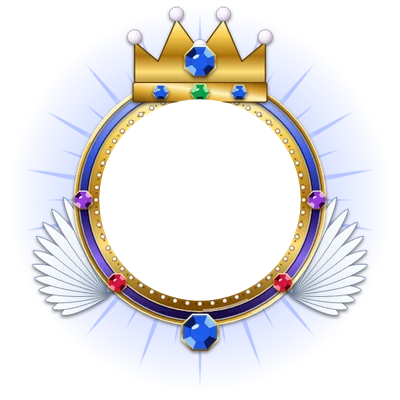
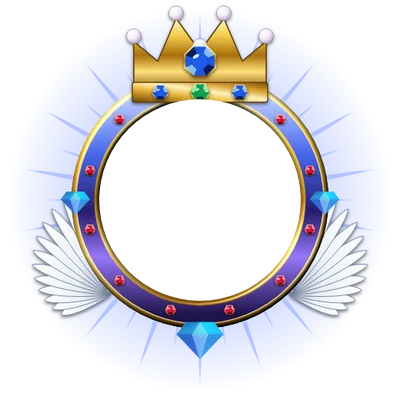
Frames v3: chunky enamel rings with 3D bevel lighting, 3D gems, redesigned royal/VIP/reward frames
Claude-Session: https://claude.ai/code/session_01UNbGwKBERR3Z9c2NWXRS2D

diff --git a/docs/index.html b/docs/index.html
@@ -8,12 +8,12 @@
 <link rel="icon" href="logo.svg">
 <link rel="preconnect" href="https://fonts.googleapis.com">
 <link rel="stylesheet" href="https://fonts.googleapis.com/css2?family=Cairo:wght@400;600;700;800;900&display=swap">
-<link rel="stylesheet" href="style.css?v=35">
-<link rel="stylesheet" href="v2.css?v=35">
-<link rel="stylesheet" href="deco.css?v=35">
-<link rel="stylesheet" href="tpk.css?v=35">
-<link rel="stylesheet" href="ucard.css?v=35">
-<link rel="stylesheet" href="ranks.css?v=35">
+<link rel="stylesheet" href="style.css?v=36">
+<link rel="stylesheet" href="v2.css?v=36">
+<link rel="stylesheet" href="deco.css?v=36">
+<link rel="stylesheet" href="tpk.css?v=36">
+<link rel="stylesheet" href="ucard.css?v=36">
+<link rel="stylesheet" href="ranks.css?v=36">
 </head>
 <body>
 
@@ -190,29 +190,29 @@ setTimeout(function(){var l=document.getElementById('loading');if(l&&!l.hidden){
 <script src="https://www.gstatic.com/firebasejs/10.12.2/firebase-auth-compat.js"></script>
 <script src="https://www.gstatic.com/firebasejs/10.12.2/firebase-firestore-compat.js"></script>
 <script src="https://cdn.jsdelivr.net/npm/agora-rtc-sdk-ng@4.20.2/AgoraRTC_N-production.js"></script>
-<script src="gart.js?v=35"></script>
-<script src="config.js?v=35"></script>
-<script src="app.js?v=35"></script>
-<script src="game.js?v=35"></script>
-<script src="games2.js?v=35"></script>
-<script src="runner.js?v=35"></script>
-<script src="ludo.js?v=35"></script>
-<script src="carrom.js?v=35"></script>
-<script src="social.js?v=35"></script>
-<script src="pk.js?v=35"></script>
-<script src="extras.js?v=35"></script>
-<script src="moments.js?v=35"></script>
-<script src="admin.js?v=35"></script>
-<script src="earn.js?v=35"></script>
-<script src="ui2.js?v=35"></script>
-<script src="lists.js?v=35"></script>
-<script src="roomplus.js?v=35"></script>
-<script src="menus.js?v=35"></script>
-<script src="deco.js?v=35"></script>
-<script src="tpk.js?v=35"></script>
-<script src="crroom.js?v=35"></script>
-<script src="members2.js?v=35"></script>
-<script src="ucard.js?v=35"></script>
-<script src="ranks.js?v=35"></script>
+<script src="gart.js?v=36"></script>
+<script src="config.js?v=36"></script>
+<script src="app.js?v=36"></script>
+<script src="game.js?v=36"></script>
+<script src="games2.js?v=36"></script>
+<script src="runner.js?v=36"></script>
+<script src="ludo.js?v=36"></script>
+<script src="carrom.js?v=36"></script>
+<script src="social.js?v=36"></script>
+<script src="pk.js?v=36"></script>
+<script src="extras.js?v=36"></script>
+<script src="moments.js?v=36"></script>
+<script src="admin.js?v=36"></script>
+<script src="earn.js?v=36"></script>
+<script src="ui2.js?v=36"></script>
+<script src="lists.js?v=36"></script>
+<script src="roomplus.js?v=36"></script>
+<script src="menus.js?v=36"></script>
+<script src="deco.js?v=36"></script>
+<script src="tpk.js?v=36"></script>
+<script src="crroom.js?v=36"></script>
+<script src="members2.js?v=36"></script>
+<script src="ucard.js?v=36"></script>
+<script src="ranks.js?v=36"></script>
 </body>
 </html>

diff --git a/docs/deco.js b/docs/deco.js
@@ -59,7 +59,7 @@ function frOf(u) { // الإطار اللي يبين
 function frSparks(s) { if (s < 40) return ''; return '<b class="fxs" style="left:14%;top:18%"></b><b class="fxs" style="left:80%;top:30%;animation-delay:.7s"></b><b class="fxs" style="left:70%;top:84%;animation-delay:1.3s"></b><b class="fxs" style="left:22%;top:78%;animation-delay:1.9s"></b>'; }
 window.avHtml = function (u, size) {
   const s = size || 44, st = 'width:' + s + 'px;height:' + s + 'px;font-size:' + Math.round(s * .4) + 'px;', inner = avInner(u), f = frOf(u);
-  if (f) return '<div class="av fx2 ' + (FX_CLS[f.id] || '') + '" style="' + st + '"><i data-av="' + esc(u.uid || '') + '" style="background:' + esc(u.color || '#FF8A1F') + '">' + inner + '</i><span class="fx2-f" style="--fi:url(frames/' + f.id + '.webp)">' + (f.a ? frSparks(s) : '') + '</span></div>';
+  if (f) return '<div class="av fx2 ' + (FX_CLS[f.id] || '') + '" style="' + st + '"><i data-av="' + esc(u.uid || '') + '" style="background:' + esc(u.color || '#FF8A1F') + '">' + inner + '</i><span class="fx2-f" style="--fi:url(frames/' + f.id + '.webp?v=2)">' + (f.a ? frSparks(s) : '') + '</span></div>';
   return '<div class="av" data-av="' + esc(u.uid || '') + '" style="' + st + 'background:' + esc(u.color || '#FF8A1F') + '">' + inner + '</div>';
 };
 const _meLite = window.meLite;

diff --git a/tools/frames_gen.py b/tools/frames_gen.py
@@ -29,7 +29,7 @@ DEFS='''
 <radialGradient id="velvet" cx=".5" cy=".5" r=".6"><stop offset=".6" stop-color="#9A0A1E"/><stop offset="1" stop-color="#3A0008"/></radialGradient>
 <linearGradient id="plat" x1="0" y1="0" x2="0" y2="1"><stop offset="0" stop-color="#FFFFFF"/><stop offset=".3" stop-color="#DDE8F2"/><stop offset=".5" stop-color="#8FA3B8"/><stop offset=".7" stop-color="#F4FAFF"/><stop offset="1" stop-color="#5E7086"/></linearGradient>
 <linearGradient id="turq" x1="0" y1="0" x2="0" y2="1"><stop offset="0" stop-color="#B8FFF4"/><stop offset=".4" stop-color="#1AC8B4"/><stop offset="1" stop-color="#05524A"/></linearGradient>
-<filter id="sh" x="-20%" y="-20%" width="140%" height="140%"><feDropShadow dx="0" dy="2" stdDeviation="2.2" flood-color="#000" flood-opacity=".55"/></filter>
+<filter id="bev" x="-10%" y="-10%" width="120%" height="120%" color-interpolation-filters="sRGB"><feGaussianBlur in="SourceAlpha" stdDeviation="2.2" result="b"/><feSpecularLighting in="b" surfaceScale="5" specularConstant="1.25" specularExponent="18" lighting-color="#FFFFFF" result="s"><feDistantLight azimuth="235" elevation="48"/></feSpecularLighting><feComposite in="s" in2="SourceAlpha" operator="in" result="s2"/><feDiffuseLighting in="b" surfaceScale="5" diffuseConstant="1" lighting-color="#FFFFFF" result="d"><feDistantLight azimuth="235" elevation="55"/></feDiffuseLighting><feComposite in="SourceGraphic" in2="d" operator="arithmetic" k1="1.15" k2="0" k3="0" k4="0" result="lit"/><feComposite in="lit" in2="s2" operator="arithmetic" k1="0" k2="1" k3=".85" k4="0" result="o"/><feComposite in="o" in2="SourceAlpha" operator="in"/></filter><filter id="bev2" x="-10%" y="-10%" width="120%" height="120%" color-interpolation-filters="sRGB"><feGaussianBlur in="SourceAlpha" stdDeviation="2.6" result="b"/><feSpecularLighting in="b" surfaceScale="6" specularConstant=".75" specularExponent="28" lighting-color="#FFFFFF" result="s"><feDistantLight azimuth="235" elevation="42"/></feSpecularLighting><feComposite in="s" in2="SourceAlpha" operator="in" result="s2"/><feDiffuseLighting in="b" surfaceScale="6" diffuseConstant="1" lighting-color="#FFFFFF" result="d"><feDistantLight azimuth="235" elevation="60"/></feDiffuseLighting><feComposite in="SourceGraphic" in2="d" operator="arithmetic" k1="1.15" k2="0" k3="0" k4="0" result="lit"/><feComposite in="lit" in2="s2" operator="arithmetic" k1="0" k2="1" k3=".8" k4="0" result="o"/><feComposite in="o" in2="SourceAlpha" operator="in"/></filter><filter id="sh" x="-20%" y="-20%" width="140%" height="140%"><feDropShadow dx="0" dy="2" stdDeviation="2.2" flood-color="#000" flood-opacity=".55"/></filter>
 <filter id="glow" x="-50%" y="-50%" width="200%" height="200%"><feGaussianBlur stdDeviation="5"/></filter>
 '''
 GEMS={'blood':('#2A0003','#C8001A','#FF7070'),'toxic':('#03300A','#2AD43A','#C8FFB0'),'turq':('#05524A','#1AC8B4','#B8FFF4'),'ruby':('#5A0010','#D6163E','#FF8AA0'),'sapph':('#081A5A','#1E5BEA','#8EC5FF'),'emer':('#033A1A','#0FA34E','#8BF5B4'),'amet':('#2A0848','#9A3BE0','#E2B4FF'),'dia':('#5E7C9A','#D6F1FF','#FFFFFF'),'topaz':('#6A3A00','#FFAA1A','#FFE7A0')}
@@ -200,7 +200,7 @@ def rays(n,r1,r2,col='#FFE38A',op=.55):
         a=i*360/n; w=4 if i%2 else 7; L=r2 if i%2==0 else r2*.82
         x1,y1=P(a-w*.25,r1); x2,y2=P(a,L); x3,y3=P(a+w*.25,r1)
         o+='<polygon points="%.1f,%.1f %.1f,%.1f %.1f,%.1f" fill="url(#rayg%s)"/>'%(x1,y1,x2,y2,x3,y3,col[1:])
-    return o
+    return o+'<!--R-->'
 def wing2(side,g='featherG',edge='#6A4000',sc=1.0,y=200):
     o=[]; bx=200+side*118; by=y
     rows=[(15,205,24,'1'),(13,155,22,'1'),(11,105,20,'1'),(9,62,18,'1')]
@@ -238,6 +238,21 @@ def ring3d(r1,r2,g='gold',pat=True):
     o+='<circle cx="200" cy="200" r="%.1f" fill="none" stroke="#FFFFFF" stroke-width="2" opacity=".55" stroke-dasharray="60 400" transform="rotate(-120 200 200)"/>'%(r2-3)
     return o
 
+GOLDF='style="filter:sepia(1) saturate(4) hue-rotate(-12deg) brightness(1.05) contrast(1.1)"'
+WHITEF='style="filter:grayscale(1) brightness(1.55) contrast(1.15)"'
+def fimgR(name,cx,cy,w,rot=0,flip=False,extra=''):
+    t='translate(%.1f %.1f) rotate(%.1f) scale(%d 1)'%(cx,cy,rot,-1 if flip else 1)
+    return '<g transform="%s">'%t+fimg(name,0,0,w,extra)+'</g>'
+def ringX(g1,g2,edge='#FFF6C4',dark='#3A2000',studs='ruby'):
+    o='<g filter="url(#bev2)">'
+    o+='<circle cx="200" cy="200" r="148" fill="none" stroke="url(#%s)" stroke-width="26"/>'%g1
+    o+='<circle cx="200" cy="200" r="164" fill="none" stroke="url(#gold)" stroke-width="7"/>'
+    o+='<circle cx="200" cy="200" r="134" fill="none" stroke="url(#%s)" stroke-width="7"/>'%g2
+    o+='</g>'
+    o+='<circle cx="200" cy="200" r="161" fill="none" stroke="%s" stroke-width="1.2" opacity=".8"/>'%edge
+    o+=''.join(gem(*P(a,148),6.5,studs,6) for a in range(15,360,30))
+    return o
+
 F={}
 R2=lambda a,b,g='gold',e='#FFF6C4',d='#4A2A00': ring(a,b,g,e,d)
 F['lv_bronze']=ring(134,156,'bronze','#FFE2C4','#3A1A04')+notches(145,56,'#3A1A04')+beads(160,36,3.5,'url(#bronze)')+gem(200,40,20,'topaz')+gem(200,360,13,'topaz',6)
@@ -265,18 +280,22 @@ F['r_emperor']='<path d="M128,70 Q130,-20 200,-24 Q270,-20 272,70Z" fill="url(#v
 F['r_sultan']=''.join(star8(*P(i*30+15,176),18) for i in range(12))+''.join(gem(*P(i*30+15,176),8,'turq',6) for i in range(12))+ring(130,154,'gold')+ring(154,162,'turq','#B8FFF4','#022A26')+beads(142,48,3,'url(#goldR)')+sultan(200,82,150)+gem(200,366,20,'emer')
 F['r_diamond']=shards(36,156,30)+ring(128,150,'plat','#FFFFFF','#2A3A4A')+ring(150,158,'silver','#FFFFFF','#2A3A4A')+''.join(gem(*P(i*15,139),5.5,'dia',6) for i in range(24))+crown(200,70,170,'dia').replace('url(#gold)','url(#plat)').replace('url(#gold2)','url(#silver)')+gem(200,368,24,'dia')+''.join(gem(*P(a,154),12,'dia') for a in (90,270))
 
-F['r_emperor']=rays(36,140,250)+wing2(-1)+wing2(1)+ring3d(124,146)+ring(146,156,'velvet','#FF9A9A','#200004')+ring3d(156,166,'gold2',False)+beads(135,52,3.2,'url(#pearl)')+pearldrape(140,220,166,30,13,'ruby')+crown(200,58,172,'ruby')+''.join(fimg('Gem stone',*P(a,161),34) for a in (90,270))+gem(200,384,26,'ruby')
-F['r_diamond']=rays(36,140,250,'#BFEFFF',.6)+wing2(-1,'featherW','#6A7890')+wing2(1,'featherW','#6A7890')+shards(36,158,30)+ring3d(126,148,'plat')+ring3d(148,158,'silver',False)+''.join(gem(*P(i*15,137),5.5,'dia',6) for i in range(24))+pearldrape(140,220,160,28,13,'dia')+crown(200,58,170,'dia').replace('url(#gold)','url(#plat)').replace('url(#gold2)','url(#silver)')+gem(200,380,26,'dia')+''.join(fimg('Gem stone',*P(a,153),32) for a in (90,270))
-F['r_sultan']=rays(32,140,240,'#7FFFE8',.5)+wing2(-1)+wing2(1)+''.join(star8(*P(i*30+15,176),18) for i in range(12) if i not in (5,6))+ring3d(128,152)+ring(152,162,'turq','#B8FFF4','#022A26')+beads(140,48,3,'url(#goldR)')+pearldrape(140,220,165,28,13,'emer')+sultan(200,76,150)+gem(200,380,24,'turq')
-F['r_queen']=rays(36,140,240,'#FFB6D0',.55)+wing2(-1,'featherW','#A07090')+wing2(1,'featherW','#A07090')+ring3d(126,150,'rosegold')+beads(138,48,3.4,'url(#pearl)')+pearldrape(130,230,165,36,17,'ruby')+crown(200,58,160,'ruby').replace('url(#gold)','url(#rosegold)')+gem(200,382,24,'ruby')+''.join(heart(*P(a,160),1.8) for a in (90,270))
-F['v_king']=rays(40,140,255,'#FFD27A',.6)+flames(34,152,'flame',1.6)+wing2(-1)+wing2(1)+ring3d(126,150)+ring3d(150,160,'gold2',False)+beads(138,52,3)+crown(200,58,172,'ruby')+gem(200,382,26,'dia')+''.join(fimg('Gem stone',*P(a,155),30) for a in (60,300,120,240))
-F['v_gwings']=rays(30,140,240,'#FFE38A',.45)+wing2(-1)+wing2(1)+ring3d(128,154)+beads(141,44,3.4)+crown(200,60,156,'emer')+gem(200,378,20,'ruby')+''.join(gem(*P(a,141),10,'sapph',6) for a in (60,300))
-F['v_wings']=rays(30,140,240,'#FFFFFF',.4)+wing2(-1,'featherW','#6A7890')+wing2(1,'featherW','#6A7890')+ring3d(128,152)+beads(140,44,3,'#FFFFFF')+'<ellipse cx="200" cy="20" rx="70" ry="16" fill="none" stroke="url(#gold)" stroke-width="10" filter="url(#sh)"/>'+gem(200,376,20,'sapph')
-F['v_crown']=rays(36,140,245)+leafarc(206,292,182,10,'url(#gold)',22)+leafarc(154,68,182,10,'url(#gold)',22)+ring3d(126,150)+ring3d(150,160,'gold2',False)+beads(138,52,3,'url(#pearl)')+pearldrape(140,220,164,28,13,'emer')+crown(200,58,168,'sapph')+gem(200,380,24,'ruby')+''.join(fimg('Gem stone',*P(a,155),28) for a in (90,270))
+F['r_emperor']=rays(36,140,250)+wing2(-1)+wing2(1)+ringX('blood','gold',studs='dia')+pearldrape(140,220,170,30,13,'ruby')+crown(200,58,176,'ruby')+fimgR('Gem stone',200,378,62,0,False,'style="filter:hue-rotate(160deg) saturate(1.6)"')+fimgR('Gem stone',36,200,44)+fimgR('Gem stone',364,200,44)
+F['r_diamond']=rays(36,140,250,'#BFEFFF',.6)+wing2(-1,'featherW','#6A7890')+wing2(1,'featherW','#6A7890')+shards(36,166,26)+ringX('plat','silver',studs='dia')+pearldrape(140,220,168,28,13,'dia')+crown(200,58,170,'dia').replace('url(#gold)','url(#plat)').replace('url(#gold2)','url(#silver)')+fimgR('Gem stone',200,378,62)
+F['r_sultan']=rays(32,140,240,'#7FFFE8',.5)+wing2(-1)+wing2(1)+''.join(star8(*P(i*30+15,182),16) for i in range(12) if i not in (5,6,11,0))+ringX('turq','gold',studs='ruby')+pearldrape(140,220,168,28,13,'emer')+sultan(200,76,150)+fimgR('Gem stone',200,378,58,0,False,'style="filter:hue-rotate(-40deg) saturate(1.3)"')
+F['r_queen']=rays(36,140,240,'#FFB6D0',.55)+wing2(-1,'featherW','#A07090')+wing2(1,'featherW','#A07090')+ringX('rosegold','purp',studs='ruby')+pearldrape(130,230,168,36,17,'ruby')+crown(200,58,160,'ruby').replace('url(#gold)','url(#rosegold)')+fimgR('Sparkling heart',200,378,62)
+F['v_king']=rays(40,140,255,'#FFD27A',.6)+flames(34,156,'flame',1.6)+wing2(-1)+wing2(1)+ringX('gold','blood',studs='dia')+crown(200,58,172,'ruby')+fimgR('Gem stone',200,378,66)+''.join(fimgR('Gem stone',*P(a,160),30) for a in (60,300))
+F['v_gwings']=rays(30,140,240,'#FFE38A',.45)+wing2(-1)+wing2(1)+ringX('gold','royal',studs='emer')+crown(200,60,156,'emer')+fimgR('Gem stone',200,376,52,0,False,'style="filter:hue-rotate(160deg) saturate(1.6)"')
+F['v_wings']=rays(30,140,240,'#FFFFFF',.4)+wing2(-1,'featherW','#6A7890')+wing2(1,'featherW','#6A7890')+ringX('silver','gold',studs='sapph')+'<ellipse cx="200" cy="20" rx="70" ry="16" fill="none" stroke="url(#gold)" stroke-width="10" filter="url(#sh)"/>'+fimgR('Gem stone',200,376,52)
+F['v_crown']=rays(36,140,245)+leafarc(206,292,184,10,'url(#gold)',22)+leafarc(154,68,184,10,'url(#gold)',22)+ringX('gold','emerald' if False else 'turq',studs='ruby')+pearldrape(140,220,168,28,13,'emer')+crown(200,58,168,'sapph')+fimgR('Gem stone',200,378,58,0,False,'style="filter:hue-rotate(160deg) saturate(1.6)"')
 
 F['rk_rich']=rays(40,140,255,'#FFD27A',.7)+wing2(-1)+wing2(1)+ring3d(126,150)+ring3d(150,160,'gold2',False)+beads(138,52,3,'url(#goldR)')+gem(200,30,30,'topaz')+''.join(gem(*P(a,155),11,'topaz',6) for a in (60,300))+gem(200,370,22,'ruby')+''.join(star8(*P(a,170),12) for a in (130,230))
 F['rk_star']=rays(36,140,250,'#F0A0FF',.6)+wing2(-1,'featherP','#4A0A6A')+wing2(1,'featherP','#4A0A6A')+ring3d(128,150,'purp')+ring(150,158,'rosegold','#FFE4E1','#4A1414')+beads(139,48,3,'url(#pearl)')+crown(200,58,150,'amet').replace('url(#gold)','url(#rosegold)')+gem(200,368,20,'amet')+''.join(heart(*P(a,156),1.6) for a in (90,270))
 F['rk_pk']=rays(36,140,250,'#9AB0FF',.6)+'<g transform="translate(0 70)">'+wing2(-1,'featherW','#6A7890',.75,250)+wing2(1,'featherW','#6A7890',.75,250)+'</g>'+ring3d(124,146)+ring(146,158,'royal','#C8D8FF','#0A0430')+ring3d(158,164,'gold2',False)+beads(135,52,3,'url(#pearl)')+crown(200,60,170,'sapph')+gem(200,372,24,'sapph')+''.join(gem(*P(a,152),12,k) for a,k in ((90,'amet'),(270,'amet'),(135,'ruby'),(225,'ruby')))
+
+F['rk_star']=rays(36,140,250,'#F0A0FF',.65)+wing2(-1,'featherP','#4A0A6A')+wing2(1,'featherP','#4A0A6A')+ringX('purp','rosegold',studs='amet')+crown(200,58,150,'amet').replace('url(#gold)','url(#rosegold)')+fimgR('Gem stone',200,372,64,0,False,'style="filter:hue-rotate(60deg) saturate(1.3)"')+fimgR('Sparkles',330,62,50)
+F['rk_rich']=rays(40,140,255,'#FFD27A',.7)+wing2(-1)+wing2(1)+ringX('gold','royal',studs='sapph')+fimgR('Gem stone',200,28,96)+fimgR('Gem stone',200,374,60,0,False,'style="filter:hue-rotate(160deg) saturate(1.6)"')+fimgR('Sparkles',318,46,48)
+F['rk_pk']=rays(36,140,250,'#9AB0FF',.65)+'<g transform="translate(0 70)">'+wing2(-1,'featherW','#6A7890',.75,250)+wing2(1,'featherW','#6A7890',.75,250)+'</g>'+ringX('royal','gold',studs='ruby')+crown(200,60,172,'sapph')+fimgR('Gem stone',200,376,70)+fimgR('Gem stone',38,200,44)+fimgR('Gem stone',362,200,44)
 
 for k,v in F.items():
     sv='<svg xmlns="http://www.w3.org/2000/svg" viewBox="-60 -60 520 520" width="520" height="520"><defs>'+DEFS+'<mask id="hole"><rect x="-60" y="-60" width="520" height="520" fill="#fff"/><circle cx="200" cy="200" r="131" fill="#000"/></mask></defs><g mask="url(#hole)">'+v+'</g></svg>'
